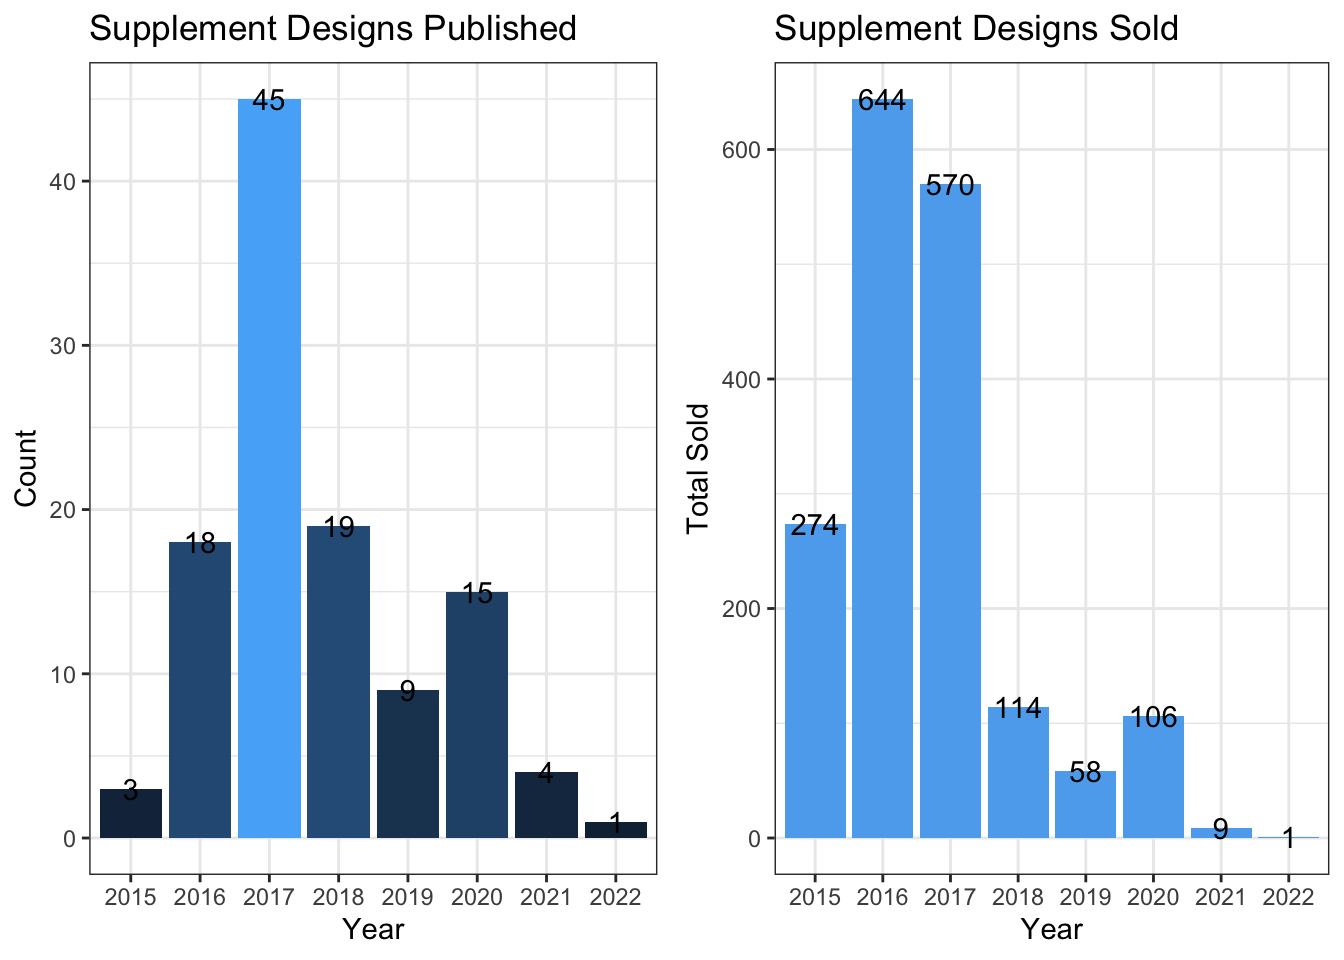
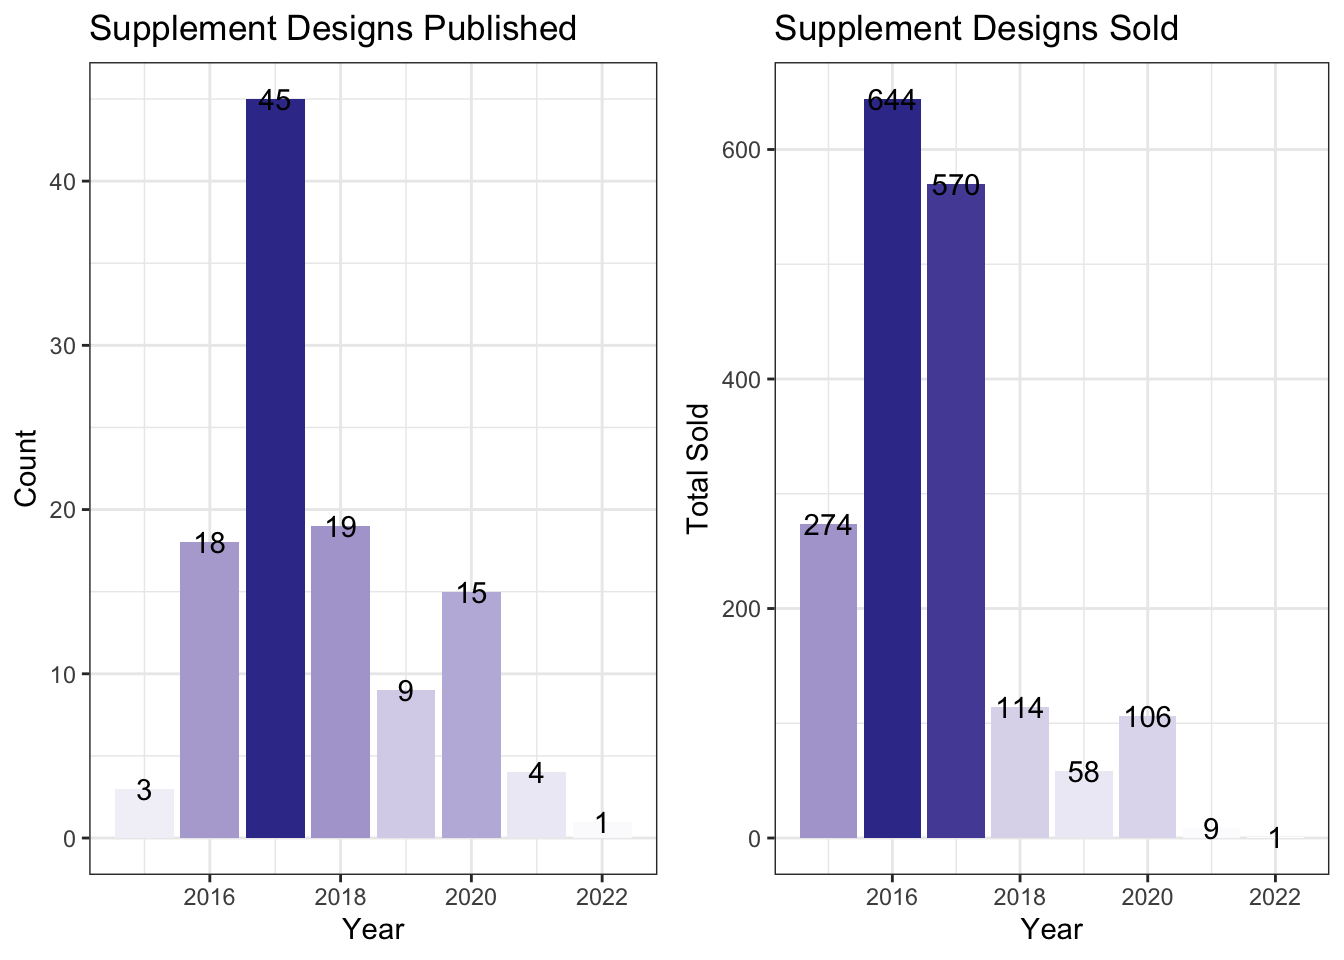
ugly plots to not ugly plots

Changed region(s): [[0.5625, 0.0938, 0.9688, 0.9688], [0.0625, 0.0938, 0.5, 0.875], [0.0938, 0.9062, 0.4688, 0.9375]]

diff --git a/docs/projects/archived_folder/package_labels_folder/package_labels.html b/docs/projects/archived_folder/package_labels_folder/package_labels.html
@@ -221,15 +221,16 @@ pre > code.sourceCode > span > a:first-child::before { text-decoration: underlin
 <span id="cb1-2"><a href="#cb1-2" aria-hidden="true" tabindex="-1"></a>  <span class="fu">group_by</span>(year) <span class="sc">|&gt;</span></span>
 <span id="cb1-3"><a href="#cb1-3" aria-hidden="true" tabindex="-1"></a>  <span class="fu">count</span>(year) <span class="sc">|&gt;</span></span>
 <span id="cb1-4"><a href="#cb1-4" aria-hidden="true" tabindex="-1"></a>  <span class="fu">filter</span>(n <span class="sc">&gt;</span> <span class="dv">25</span>) <span class="sc">|&gt;</span></span>
-<span id="cb1-5"><a href="#cb1-5" aria-hidden="true" tabindex="-1"></a>  <span class="fu">ggplot</span>(<span class="fu">aes</span>(<span class="at">x =</span> <span class="fu">as.factor</span>(year), <span class="at">y =</span> n, <span class="at">fill =</span> <span class="fu">as.factor</span>(year))) <span class="sc">+</span></span>
+<span id="cb1-5"><a href="#cb1-5" aria-hidden="true" tabindex="-1"></a>  <span class="fu">ggplot</span>(<span class="fu">aes</span>(<span class="at">x =</span> year, <span class="at">y =</span> n, <span class="at">fill =</span> n)) <span class="sc">+</span></span>
 <span id="cb1-6"><a href="#cb1-6" aria-hidden="true" tabindex="-1"></a>  <span class="fu">geom_bar</span>(<span class="at">stat =</span> <span class="st">"identity"</span>, <span class="at">show.legend =</span> <span class="cn">FALSE</span>) <span class="sc">+</span></span>
 <span id="cb1-7"><a href="#cb1-7" aria-hidden="true" tabindex="-1"></a>  <span class="fu">geom_text</span>(<span class="fu">aes</span>(<span class="at">label =</span> n)) <span class="sc">+</span></span>
-<span id="cb1-8"><a href="#cb1-8" aria-hidden="true" tabindex="-1"></a>  <span class="fu">theme_bw</span>() <span class="sc">+</span></span>
-<span id="cb1-9"><a href="#cb1-9" aria-hidden="true" tabindex="-1"></a>  <span class="fu">labs</span>(</span>
-<span id="cb1-10"><a href="#cb1-10" aria-hidden="true" tabindex="-1"></a>    <span class="at">title =</span> <span class="st">"Number of Designs Published by Year"</span>,</span>
-<span id="cb1-11"><a href="#cb1-11" aria-hidden="true" tabindex="-1"></a>    <span class="at">x =</span> <span class="st">"Year"</span>,</span>
-<span id="cb1-12"><a href="#cb1-12" aria-hidden="true" tabindex="-1"></a>    <span class="at">y =</span> <span class="st">"Count"</span></span>
-<span id="cb1-13"><a href="#cb1-13" aria-hidden="true" tabindex="-1"></a>    )</span></code><button title="Copy to Clipboard" class="code-copy-button"><i class="bi"></i></button></pre></div>
+<span id="cb1-8"><a href="#cb1-8" aria-hidden="true" tabindex="-1"></a>  <span class="fu">scale_fill_gradient2</span>() <span class="sc">+</span></span>
+<span id="cb1-9"><a href="#cb1-9" aria-hidden="true" tabindex="-1"></a>  <span class="fu">theme_bw</span>() <span class="sc">+</span></span>
+<span id="cb1-10"><a href="#cb1-10" aria-hidden="true" tabindex="-1"></a>  <span class="fu">labs</span>(</span>
+<span id="cb1-11"><a href="#cb1-11" aria-hidden="true" tabindex="-1"></a>    <span class="at">title =</span> <span class="st">"Number of Designs Published by Year"</span>,</span>
+<span id="cb1-12"><a href="#cb1-12" aria-hidden="true" tabindex="-1"></a>    <span class="at">x =</span> <span class="st">"Year"</span>,</span>
+<span id="cb1-13"><a href="#cb1-13" aria-hidden="true" tabindex="-1"></a>    <span class="at">y =</span> <span class="st">"Count"</span></span>
+<span id="cb1-14"><a href="#cb1-14" aria-hidden="true" tabindex="-1"></a>    )</span></code><button title="Copy to Clipboard" class="code-copy-button"><i class="bi"></i></button></pre></div>
 </details>
 <div class="cell-output-display">
 <div>
@@ -688,31 +689,33 @@ pre > code.sourceCode > span > a:first-child::before { text-decoration: underlin
 <div class="sourceCode cell-code" id="cb5"><pre class="sourceCode r code-with-copy"><code class="sourceCode r"><span id="cb5-1"><a href="#cb5-1" aria-hidden="true" tabindex="-1"></a>supple_publish <span class="ot">&lt;-</span> supplement <span class="sc">|&gt;</span></span>
 <span id="cb5-2"><a href="#cb5-2" aria-hidden="true" tabindex="-1"></a>  <span class="fu">group_by</span>(year) <span class="sc">|&gt;</span></span>
 <span id="cb5-3"><a href="#cb5-3" aria-hidden="true" tabindex="-1"></a>  <span class="fu">count</span>(year) <span class="sc">|&gt;</span></span>
-<span id="cb5-4"><a href="#cb5-4" aria-hidden="true" tabindex="-1"></a>  <span class="fu">ggplot</span>(<span class="fu">aes</span>(<span class="at">x =</span> <span class="fu">as.factor</span>(year), <span class="at">y =</span> n, <span class="at">fill =</span> n)) <span class="sc">+</span></span>
+<span id="cb5-4"><a href="#cb5-4" aria-hidden="true" tabindex="-1"></a>  <span class="fu">ggplot</span>(<span class="fu">aes</span>(<span class="at">x =</span> year, <span class="at">y =</span> n, <span class="at">fill =</span> n)) <span class="sc">+</span></span>
 <span id="cb5-5"><a href="#cb5-5" aria-hidden="true" tabindex="-1"></a>  <span class="fu">geom_bar</span>(<span class="at">stat =</span> <span class="st">"identity"</span>, <span class="at">show.legend =</span> <span class="cn">FALSE</span>) <span class="sc">+</span></span>
-<span id="cb5-6"><a href="#cb5-6" aria-hidden="true" tabindex="-1"></a>  <span class="fu">geom_text</span>(<span class="fu">aes</span>(<span class="at">label =</span> n)) <span class="sc">+</span></span>
-<span id="cb5-7"><a href="#cb5-7" aria-hidden="true" tabindex="-1"></a>  <span class="fu">theme_bw</span>() <span class="sc">+</span></span>
-<span id="cb5-8"><a href="#cb5-8" aria-hidden="true" tabindex="-1"></a>  <span class="fu">labs</span>(</span>
-<span id="cb5-9"><a href="#cb5-9" aria-hidden="true" tabindex="-1"></a>    <span class="at">title =</span> <span class="st">"Supplement Designs Published"</span>,</span>
-<span id="cb5-10"><a href="#cb5-10" aria-hidden="true" tabindex="-1"></a>    <span class="at">x =</span> <span class="st">"Year"</span>,</span>
-<span id="cb5-11"><a href="#cb5-11" aria-hidden="true" tabindex="-1"></a>    <span class="at">y =</span> <span class="st">"Count"</span></span>
-<span id="cb5-12"><a href="#cb5-12" aria-hidden="true" tabindex="-1"></a>  )</span>
-<span id="cb5-13"><a href="#cb5-13" aria-hidden="true" tabindex="-1"></a></span>
-<span id="cb5-14"><a href="#cb5-14" aria-hidden="true" tabindex="-1"></a>supple_sold <span class="ot">&lt;-</span> supplement <span class="sc">|&gt;</span></span>
-<span id="cb5-15"><a href="#cb5-15" aria-hidden="true" tabindex="-1"></a>  <span class="fu">group_by</span>(year) <span class="sc">|&gt;</span></span>
-<span id="cb5-16"><a href="#cb5-16" aria-hidden="true" tabindex="-1"></a>  <span class="fu">summarize</span>(<span class="at">total_sold =</span> <span class="fu">sum</span>(n_sale)) <span class="sc">|&gt;</span></span>
-<span id="cb5-17"><a href="#cb5-17" aria-hidden="true" tabindex="-1"></a>  <span class="fu">ggplot</span>(<span class="fu">aes</span>(<span class="at">x =</span> <span class="fu">as.factor</span>(year), <span class="at">y =</span> total_sold)) <span class="sc">+</span></span>
-<span id="cb5-18"><a href="#cb5-18" aria-hidden="true" tabindex="-1"></a>  <span class="fu">geom_bar</span>(<span class="at">stat =</span> <span class="st">"identity"</span>, <span class="at">fill =</span> <span class="st">"steelblue2"</span>) <span class="sc">+</span></span>
-<span id="cb5-19"><a href="#cb5-19" aria-hidden="true" tabindex="-1"></a>  <span class="fu">geom_text</span>(<span class="fu">aes</span>(<span class="at">label =</span> total_sold)) <span class="sc">+</span></span>
-<span id="cb5-20"><a href="#cb5-20" aria-hidden="true" tabindex="-1"></a>  <span class="fu">theme_bw</span>() <span class="sc">+</span></span>
-<span id="cb5-21"><a href="#cb5-21" aria-hidden="true" tabindex="-1"></a>  <span class="fu">labs</span>(</span>
-<span id="cb5-22"><a href="#cb5-22" aria-hidden="true" tabindex="-1"></a>    <span class="at">title =</span> <span class="st">"Supplement Designs Sold"</span>,</span>
-<span id="cb5-23"><a href="#cb5-23" aria-hidden="true" tabindex="-1"></a>    <span class="at">x =</span> <span class="st">"Year"</span>,</span>
-<span id="cb5-24"><a href="#cb5-24" aria-hidden="true" tabindex="-1"></a>    <span class="at">y =</span> <span class="st">"Total Sold"</span></span>
-<span id="cb5-25"><a href="#cb5-25" aria-hidden="true" tabindex="-1"></a>  )</span>
-<span id="cb5-26"><a href="#cb5-26" aria-hidden="true" tabindex="-1"></a></span>
-<span id="cb5-27"><a href="#cb5-27" aria-hidden="true" tabindex="-1"></a><span class="co"># aligning grids in html using cowplot</span></span>
-<span id="cb5-28"><a href="#cb5-28" aria-hidden="true" tabindex="-1"></a><span class="fu">plot_grid</span>(supple_publish, supple_sold) </span></code><button title="Copy to Clipboard" class="code-copy-button"><i class="bi"></i></button></pre></div>
+<span id="cb5-6"><a href="#cb5-6" aria-hidden="true" tabindex="-1"></a>  <span class="fu">scale_fill_gradient2</span>() <span class="sc">+</span></span>
+<span id="cb5-7"><a href="#cb5-7" aria-hidden="true" tabindex="-1"></a>  <span class="fu">geom_text</span>(<span class="fu">aes</span>(<span class="at">label =</span> n)) <span class="sc">+</span></span>
+<span id="cb5-8"><a href="#cb5-8" aria-hidden="true" tabindex="-1"></a>  <span class="fu">theme_bw</span>() <span class="sc">+</span></span>
+<span id="cb5-9"><a href="#cb5-9" aria-hidden="true" tabindex="-1"></a>  <span class="fu">labs</span>(</span>
+<span id="cb5-10"><a href="#cb5-10" aria-hidden="true" tabindex="-1"></a>    <span class="at">title =</span> <span class="st">"Supplement Designs Published"</span>,</span>
+<span id="cb5-11"><a href="#cb5-11" aria-hidden="true" tabindex="-1"></a>    <span class="at">x =</span> <span class="st">"Year"</span>,</span>
+<span id="cb5-12"><a href="#cb5-12" aria-hidden="true" tabindex="-1"></a>    <span class="at">y =</span> <span class="st">"Count"</span></span>
+<span id="cb5-13"><a href="#cb5-13" aria-hidden="true" tabindex="-1"></a>  )</span>
+<span id="cb5-14"><a href="#cb5-14" aria-hidden="true" tabindex="-1"></a></span>
+<span id="cb5-15"><a href="#cb5-15" aria-hidden="true" tabindex="-1"></a>supple_sold <span class="ot">&lt;-</span> supplement <span class="sc">|&gt;</span></span>
+<span id="cb5-16"><a href="#cb5-16" aria-hidden="true" tabindex="-1"></a>  <span class="fu">group_by</span>(year) <span class="sc">|&gt;</span></span>
+<span id="cb5-17"><a href="#cb5-17" aria-hidden="true" tabindex="-1"></a>  <span class="fu">summarize</span>(<span class="at">total_sold =</span> <span class="fu">sum</span>(n_sale)) <span class="sc">|&gt;</span></span>
+<span id="cb5-18"><a href="#cb5-18" aria-hidden="true" tabindex="-1"></a>  <span class="fu">ggplot</span>(<span class="fu">aes</span>(<span class="at">x =</span> year, <span class="at">y =</span> total_sold, <span class="at">fill =</span> total_sold)) <span class="sc">+</span></span>
+<span id="cb5-19"><a href="#cb5-19" aria-hidden="true" tabindex="-1"></a>  <span class="fu">geom_bar</span>(<span class="at">stat =</span> <span class="st">"identity"</span>, <span class="at">show.legend =</span> <span class="cn">FALSE</span>) <span class="sc">+</span></span>
+<span id="cb5-20"><a href="#cb5-20" aria-hidden="true" tabindex="-1"></a>  <span class="fu">scale_fill_gradient2</span>() <span class="sc">+</span></span>
+<span id="cb5-21"><a href="#cb5-21" aria-hidden="true" tabindex="-1"></a>  <span class="fu">geom_text</span>(<span class="fu">aes</span>(<span class="at">label =</span> total_sold)) <span class="sc">+</span></span>
+<span id="cb5-22"><a href="#cb5-22" aria-hidden="true" tabindex="-1"></a>  <span class="fu">theme_bw</span>() <span class="sc">+</span></span>
+<span id="cb5-23"><a href="#cb5-23" aria-hidden="true" tabindex="-1"></a>  <span class="fu">labs</span>(</span>
+<span id="cb5-24"><a href="#cb5-24" aria-hidden="true" tabindex="-1"></a>    <span class="at">title =</span> <span class="st">"Supplement Designs Sold"</span>,</span>
+<span id="cb5-25"><a href="#cb5-25" aria-hidden="true" tabindex="-1"></a>    <span class="at">x =</span> <span class="st">"Year"</span>,</span>
+<span id="cb5-26"><a href="#cb5-26" aria-hidden="true" tabindex="-1"></a>    <span class="at">y =</span> <span class="st">"Total Sold"</span></span>
+<span id="cb5-27"><a href="#cb5-27" aria-hidden="true" tabindex="-1"></a>  )</span>
+<span id="cb5-28"><a href="#cb5-28" aria-hidden="true" tabindex="-1"></a></span>
+<span id="cb5-29"><a href="#cb5-29" aria-hidden="true" tabindex="-1"></a><span class="co"># aligning grids in html using cowplot</span></span>
+<span id="cb5-30"><a href="#cb5-30" aria-hidden="true" tabindex="-1"></a><span class="fu">plot_grid</span>(supple_publish, supple_sold) </span></code><button title="Copy to Clipboard" class="code-copy-button"><i class="bi"></i></button></pre></div>
 </details>
 <div class="cell-output-display">
 <div>

diff --git a/docs/projects/archived.html b/docs/projects/archived.html
@@ -229,7 +229,7 @@ window.Quarto = {
   </div>
 </div>
 <div class="list grid quarto-listing-cols-3">
-<div class="g-col-1" data-index="0" data-listing-date-sort="1733119200000" data-listing-file-modified-sort="1734229622342" data-listing-date-modified-sort="NaN" data-listing-reading-time-sort="17" data-listing-word-count-sort="3243">
+<div class="g-col-1" data-index="0" data-listing-date-sort="1733119200000" data-listing-file-modified-sort="1742837874221" data-listing-date-modified-sort="NaN" data-listing-reading-time-sort="17" data-listing-word-count-sort="3255">
 <a href="../projects/archived_folder/package_labels_folder/package_labels.html" class="quarto-grid-link">
 <div class="quarto-grid-item card h-100 card-left">
 <p class="card-img-top">
